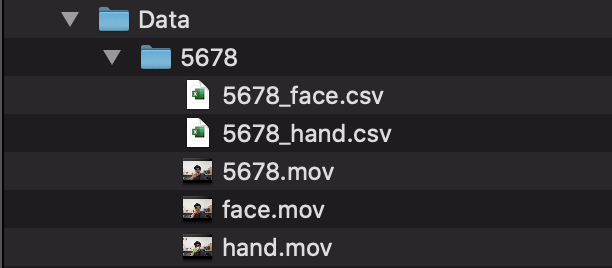
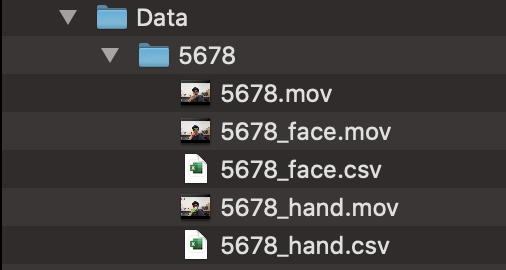
m

diff --git a/README.md b/README.md
@@ -42,7 +42,7 @@ git clone https://github.com/ShutoIna/mp_cpp.git
 管理を容易にするために，データ保管用フォルダを作成します．Dataフォルダを作成し，各ユーザの情報をID毎に分けて保管します．
 
 (方法) mediapipeフォルダまでコマンドラインで移動(cd)した後，データ保管用フォルダを作成(mkdir)  
-＊フォルダ名は，必ず**ID(整数)** として下さい(例えば，IDが5678なら，下の様に入力)  
+＊フォルダ名は，必ず**ID(整数，アルファベット，アンダーバー_の組み合わせ)** として下さい(例えば，IDが5678なら，下の様に入力)  
 
 ＊「ID=5678」では，変数IDに5678を設定することで，以降「$ID」で参照が可能になります．．
 
@@ -98,7 +98,7 @@ bazel build -c opt --define MEDIAPIPE_DISABLE_GPU=1 mediapipe/examples/desktop/h
 ```
 
 ```
-GLOG_logtostderr=1 bazel-bin/mediapipe/examples/desktop/hand_tracking/hand_tracking_cpu --calculator_graph_config_file=mediapipe/graphs/hand_tracking/hand_tracking_desktop_live.pbtxt --input_video_path=$inp --output_video_path=../Data/$ID/$ID_hand.mov
+GLOG_logtostderr=1 bazel-bin/mediapipe/examples/desktop/hand_tracking/hand_tracking_cpu --calculator_graph_config_file=mediapipe/graphs/hand_tracking/hand_tracking_desktop_live.pbtxt --input_video_path=$inp --output_video_path=../Data/$ID/${ID}_hand.mov
 
 ```
 
@@ -115,12 +115,12 @@ bazel build -c opt --define MEDIAPIPE_DISABLE_GPU=1 mediapipe/examples/desktop/f
 ```
 
 ```
-GLOG_logtostderr=1 bazel-bin/mediapipe/examples/desktop/face_mesh/face_mesh_cpu --calculator_graph_config_file=mediapipe/graphs/face_mesh/face_mesh_desktop_live.pbtxt --input_video_path=$inp --output_video_path=../Data/$ID/$ID_face.mov
+GLOG_logtostderr=1 bazel-bin/mediapipe/examples/desktop/face_mesh/face_mesh_cpu --calculator_graph_config_file=mediapipe/graphs/face_mesh/face_mesh_desktop_live.pbtxt --input_video_path=$inp --output_video_path=../Data/$ID/${ID}_face.mov
 
 ```
 
 「**ID(整数)を入力して下さい ↓** 」という文字が現れます.  
-4, 5.1と同じ数字(ID)を入力してEnterを押すと，**ID_face.movとID_face.csvが，Data/ID(整数)フォルダ内に生成されます**
+4, 5.1と同じ数字(ID)を入力してEnterを押すと，**face_ID.movとID_face.csvが，Data/ID(整数)フォルダ内に生成されます**
 
 ここまでで，以下の様なファイルが生成されます．
 
